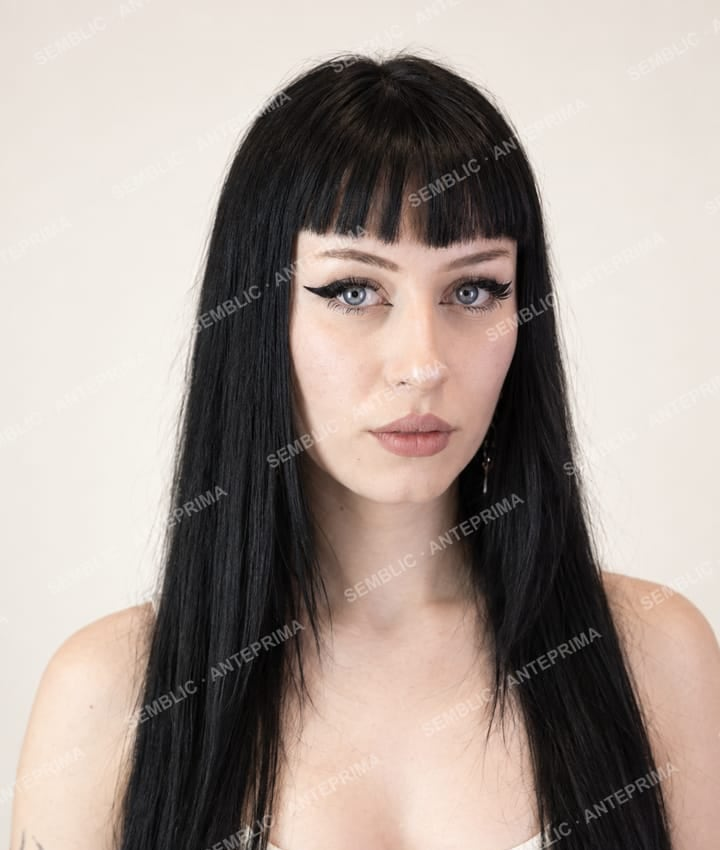
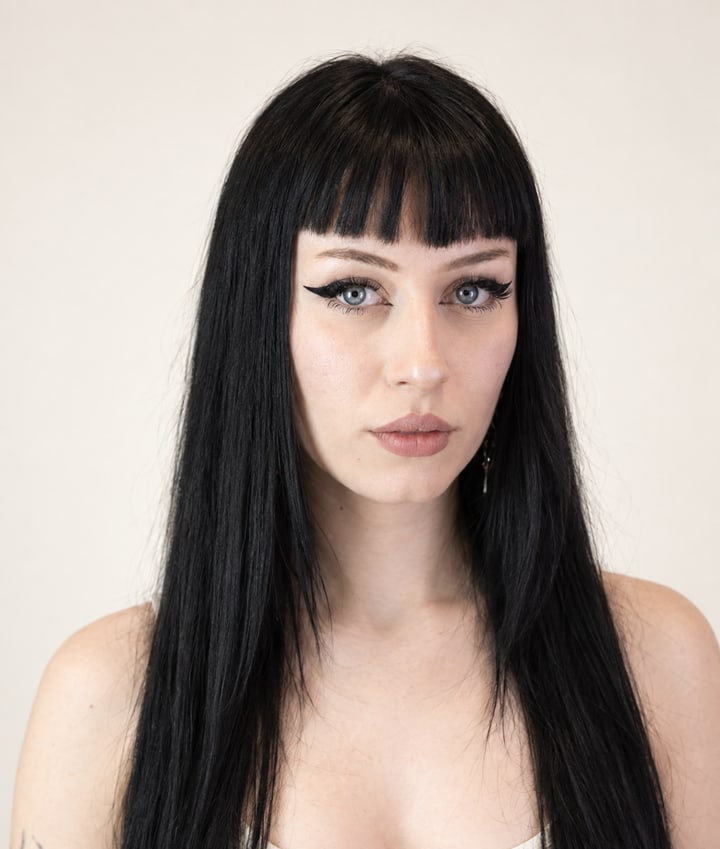
Via la filigrana visibile dalle anteprime e dalle foto della home
La provenienza resta nella filigrana invisibile del certificato.

diff --git a/app/api/sample/[handle]/[index]/route.ts b/app/api/sample/[handle]/[index]/route.ts
@@ -1,10 +1,13 @@
 import { createServerClient } from "@/lib/supabase";
 import { galleryFromRow } from "@/lib/sample-galleries";
-import { watermarkBuffer } from "@/lib/watermark";
+import sharp from "sharp";
 import { sampleWidth } from "@/lib/sample-size";
 
-// Serve un'immagine campione della galleria, WATERMARKATA.
-// L'URL pulito del motore non lascia mai il server: il client vede solo questa.
+// Serve un'immagine campione della galleria, ridimensionata.
+// 27/9/2026: niente piu' filigrana visibile "SEMBLIC · ANTEPRIMA" (decisione di
+// Morelz): le foto del registro sono la vetrina delle persone che hanno detto
+// si', e la scritta sopra le rovinava. La prova di provenienza resta la
+// filigrana invisibile dei contenuti certificati (Sigil).
 // Fonte: avatars.gallery_urls (fallback: mappa storica in lib/sample-galleries).
 export async function GET(
   req: Request,
@@ -30,8 +33,11 @@ export async function GET(
 
   let buf: Buffer;
   try {
-    // ?w= fra le larghezze ammesse: miniatura leggera, filigranata come l'originale.
-    buf = await watermarkBuffer(src, sampleWidth(new URL(req.url).searchParams.get("w")) ?? undefined);
+    // ?w= fra le larghezze ammesse: miniatura leggera.
+    const res = await fetch(src);
+    if (!res.ok) throw new Error(`sorgente ${res.status}`);
+    const w = sampleWidth(new URL(req.url).searchParams.get("w")) ?? undefined;
+    buf = await sharp(Buffer.from(await res.arrayBuffer())).rotate().resize(w ? { width: w, withoutEnlargement: true } : undefined).jpeg({ quality: 84, mozjpeg: true }).toBuffer();
   } catch {
     return new Response("Errore immagine", { status: 502 });
   }
@@ -39,8 +45,8 @@ export async function GET(
   return new Response(new Uint8Array(buf), {
     headers: {
       "Content-Type": "image/jpeg",
-      // s-maxage: la CDN di Vercel tiene la versione filigranata, cosi' la filigrana
-      // si calcola una volta per immagine e larghezza, non a ogni visitatore.
+      // s-maxage: la CDN di Vercel tiene la versione ridimensionata, calcolata
+      // una volta per immagine e larghezza, non a ogni visitatore.
       "Cache-Control": "public, max-age=86400, s-maxage=2592000, stale-while-revalidate=604800",
     },
   });
